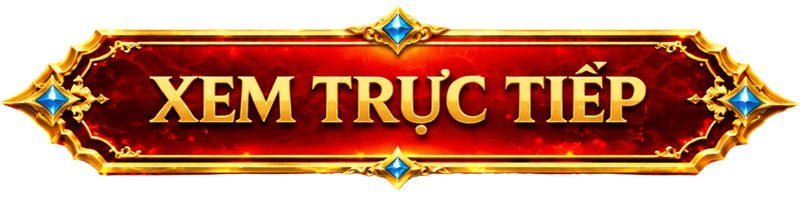
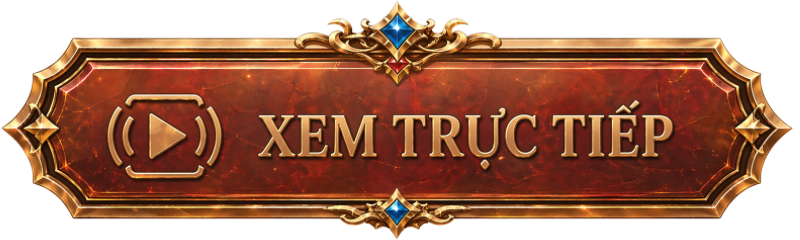
feat: Add new background images for chess board and update background decoration in chess view

diff --git a/lib/views/chess_view.dart b/lib/views/chess_view.dart
@@ -307,14 +307,14 @@ class _ChessViewState extends State<ChessView> with WidgetsBindingObserver {
               children: [
                 Container(
                   decoration: const BoxDecoration(
-                    gradient: LinearGradient(
-                      begin: Alignment.topCenter,
-                      end: Alignment.bottomCenter,
-                      colors: [bgMid, bgDark],
+                    image: DecorationImage(
+                      image: AssetImage(
+                        'assets/images/boards/background_board.png',
+                      ),
+                      fit: BoxFit.cover,
                     ),
                   ),
                 ),
-                const BoardBackground(),
                 const CornerKnots(),
                 Container(
                   decoration: BoxDecoration(